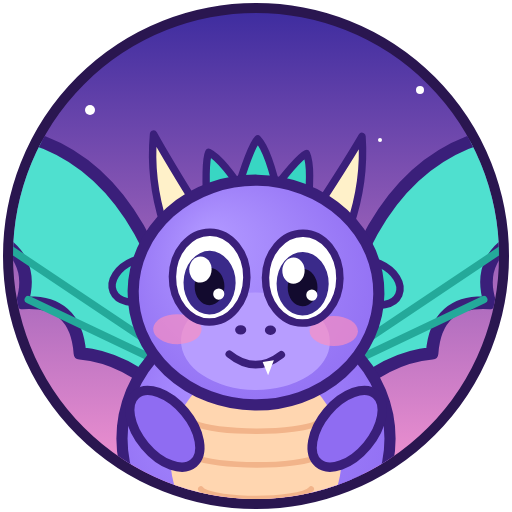
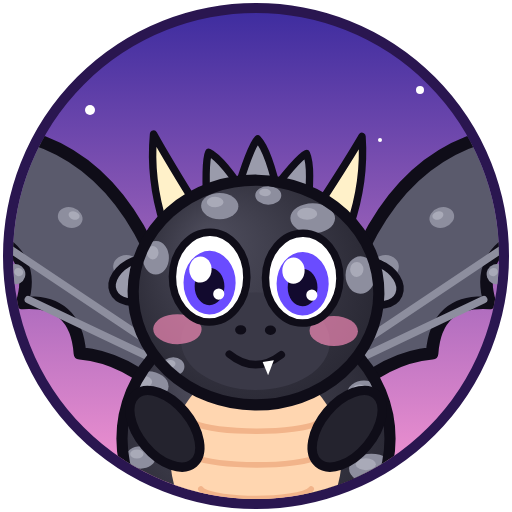
Дракоша стал чёрным с серыми пятнами, новая иконка (APK v2)
Claude-Session: https://claude.ai/code/session_014PGV5ct4oybDt2fb3VKhfg

diff --git a/web/js/art.js b/web/js/art.js
@@ -49,12 +49,19 @@ const Art = {};
   // детерминированный ГСЧ
   Art.seeded = function (seed) { let s = seed >>> 0 || 1; return () => (s = (s * 1664525 + 1013904223) >>> 0) / 4294967296; };
 
+  function spots(ctx, list) {
+    for (const [x, y, rx, ry] of list) {
+      ell(ctx, x, y, rx, ry, DC.spot);
+      ell(ctx, x - rx * 0.25, y - ry * 0.3, rx * 0.45, ry * 0.4, DC.spotLight);
+    }
+  }
   // ---------- ДРАКОНЧИК (оригинальный персонаж) ----------
   // x,y — точка между лапками на земле. o: {t, level, blink, mouth, look, squash, flap, fire, happy}
   const DC = {
-    body: '#8f6cf2', bodyDark: '#5f3fc4', belly: '#ffd6b0', bellyLine: '#f2b48a',
-    horn: '#fff1c9', crest: '#38d6c3', crestDark: '#1fa596', wing: '#4fe0cf', wingDark: '#24a99a',
-    eyeIris: '#3a2a8a', cheek: '#ff8fbf', line: '#3a1f7a', star: '#ffd23f',
+    body: '#24232e', bodyHi: '#4a4958', muzzle: '#3a3947', spot: '#8d8e9e', spotLight: '#a9aab8',
+    belly: '#ffd6b0', bellyLine: '#f2b48a',
+    horn: '#fff1c9', crest: '#9a9bab', crestDark: '#6d6e7e', wing: '#5a5a6c', wingDark: '#8d8e9e',
+    eyeIris: '#6a4cff', cheek: '#ff8fbf', line: '#0f0d18', star: '#ffd23f',
   };
   Art.dragonColors = DC;
   Art.dragon = function (ctx, x, y, s, o) {
@@ -86,6 +93,7 @@ const Art = {};
     ctx.quadraticCurveTo(120, -20 + sway * 0.3, 135 + sway * 0.4, -70 + sway);
     ctx.lineWidth = 34; ctx.strokeStyle = DC.line; ctx.stroke();
     ctx.lineWidth = 26; ctx.strokeStyle = DC.body; ctx.stroke();
+    spots(ctx, [[70, -34 + sway * 0.1, 7, 5], [104, -40 + sway * 0.3, 6, 5], [126 + sway * 0.3, -58 + sway * 0.7, 5, 4]]);
     // шипики на хвосте
     for (let i = 0; i < 2; i++) {
       const px = 85 + i * 28, py = -38 + sway * 0.25 * i - i * 10;
@@ -117,16 +125,22 @@ const Art = {};
       ctx.fillStyle = DC.wing; ctx.fill(); outline(ctx, 5, DC.line);
       ctx.beginPath(); ctx.moveTo(4, 4); ctx.lineTo(88, -20); ctx.moveTo(4, 8); ctx.lineTo(64, 0);
       ctx.lineWidth = 3; ctx.strokeStyle = DC.wingDark; ctx.stroke();
+      spots(ctx, [[30, -24, 6, 5], [58, -36, 5, 4], [72, -8, 4, 4]]);
       ctx.restore();
     }
 
     // лапки
     for (const side of [-1, 1]) {
       ell(ctx, side * 38, -14, 30, 20, DC.body); outline(ctx, 5, DC.line);
+      spots(ctx, [[side * 48, -22, 6, 4]]);
       for (let k = -1; k <= 1; k++) ell(ctx, side * 38 + k * 11, -5, 5.5, 5, DC.horn);
     }
     // тело
-    ell(ctx, 0, -72, 72, 68); ctx.fillStyle = rg(ctx, 0, -72, 90, '#a88bff', DC.body); ctx.fill(); outline(ctx, 6, DC.line);
+    ell(ctx, 0, -72, 72, 68); ctx.fillStyle = rg(ctx, 0, -72, 90, DC.bodyHi, DC.body); ctx.fill();
+    ctx.save(); ctx.clip();
+    spots(ctx, [[-58, -100, 11, 8], [-62, -62, 8, 6], [-50, -30, 10, 7], [58, -96, 9, 7], [62, -56, 12, 8], [50, -26, 7, 5]]);
+    ctx.restore();
+    ell(ctx, 0, -72, 72, 68); outline(ctx, 6, DC.line);
     // животик
     ell(ctx, 0, -62, 46, 50, DC.belly);
     ctx.lineWidth = 3; ctx.strokeStyle = DC.bellyLine;
@@ -162,9 +176,13 @@ const Art = {};
       ell(ctx, side * 62, -6, 16, 11, DC.crest, side * 0.4); outline(ctx, 4, DC.line);
     }
     // голова-шарик
-    ell(ctx, 0, 0, 66, 60); ctx.fillStyle = rg(ctx, 0, 0, 80, '#ae94ff', DC.body); ctx.fill(); outline(ctx, 6, DC.line);
+    ell(ctx, 0, 0, 66, 60); ctx.fillStyle = rg(ctx, 0, 0, 80, DC.bodyHi, DC.body); ctx.fill();
+    ctx.save(); ctx.clip();
+    spots(ctx, [[-20, -46, 10, 7], [6, -52, 7, 5], [30, -40, 12, 8], [-54, -18, 7, 9], [56, -10, 8, 10], [-44, 40, 6, 5]]);
+    ctx.restore();
+    ell(ctx, 0, 0, 66, 60); outline(ctx, 6, DC.line);
     // мордочка
-    ell(ctx, 0, 26, 40, 26, '#b79dff');
+    ell(ctx, 0, 26, 40, 26, DC.muzzle);
     // щёчки
     ctx.save(); ctx.globalAlpha = 0.65; ell(ctx, -42, 20, 13, 8, DC.cheek); ell(ctx, 42, 20, 13, 8, DC.cheek); ctx.restore();
     // глаза

diff --git a/web/js/scene_home.js b/web/js/scene_home.js
@@ -17,7 +17,7 @@ G.scenes.home = {
       { icon: 'memory', color: '#ff9a3c', scene: 'memory' },
     ];
     this.gameBtns = games.map((g, i) => UI.add(this, { x: 300 + i * 136, y: by, r: 54, icon: g.icon, color: g.color, bob: true, iconScale: 1.05, onTap: () => { Voice.stop(); G.go(g.scene); } }));
-    this.feedBtn = UI.add(this, { x: 890, y: 420, r: 58, icon: 'feed', color: '#ffd23f', onTap: () => this.feed() });
+    this.feedBtn = UI.add(this, { x: 950, y: 400, r: 58, icon: 'feed', color: '#ffd23f', onTap: () => this.feed() });
     UI.add(this, { x: G.view.x0 + 60, y: 60, r: 38, icon: d.music ? 'music' : 'musicOff', color: '#38d6c3', onTap() { Sound.setMusic(!S.data.music); this.icon = S.data.music ? 'music' : 'musicOff'; } });
     UI.add(this, { x: G.view.x0 + 150, y: 60, r: 38, icon: 'book', color: '#ff9a3c', onTap: () => { Voice.stop(); G.go('intro'); } });
     this.updBtn = UI.add(this, { x: G.view.x0 + 240, y: 60, r: 38, icon: 'update', color: '#41d982', pulse: true, hidden: !G.updateReady, onTap: () => { if (window.Android && Android.reload) Android.reload(); else location.reload(); } });
